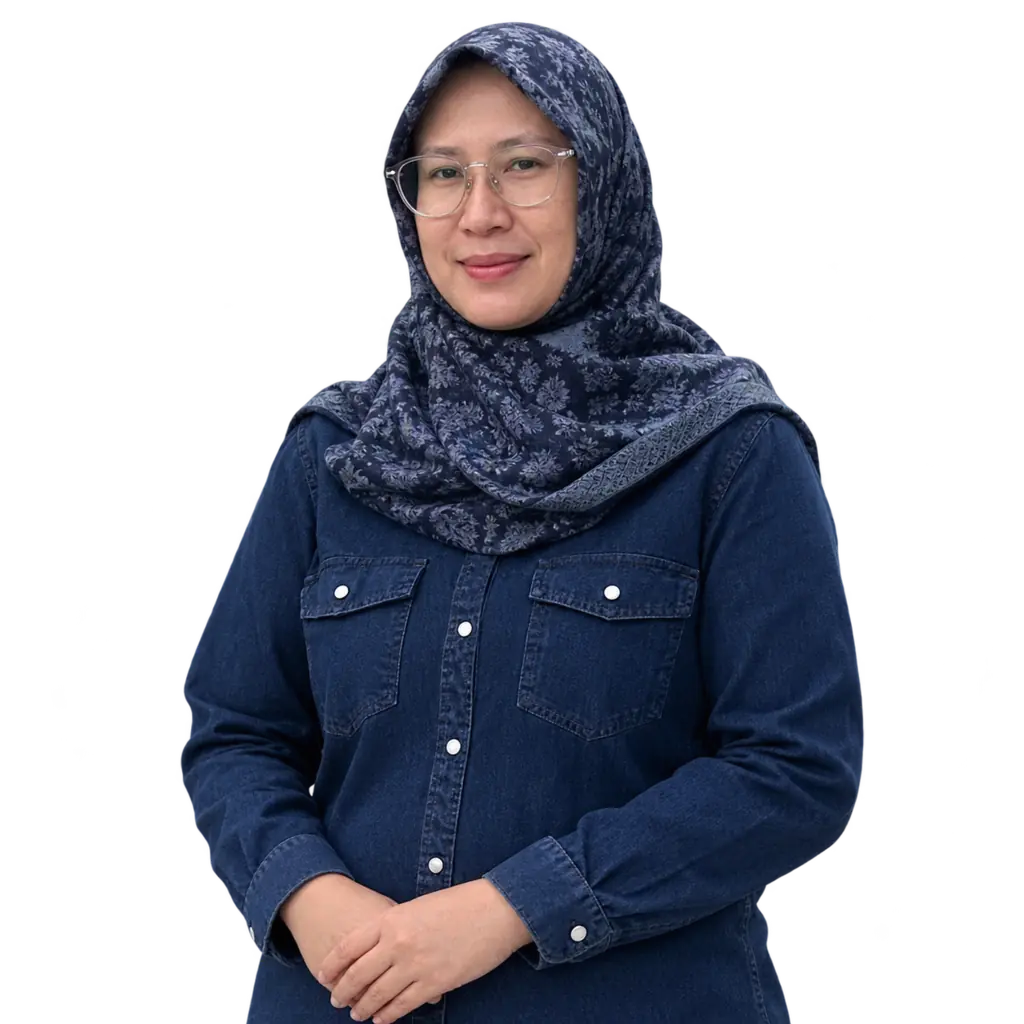
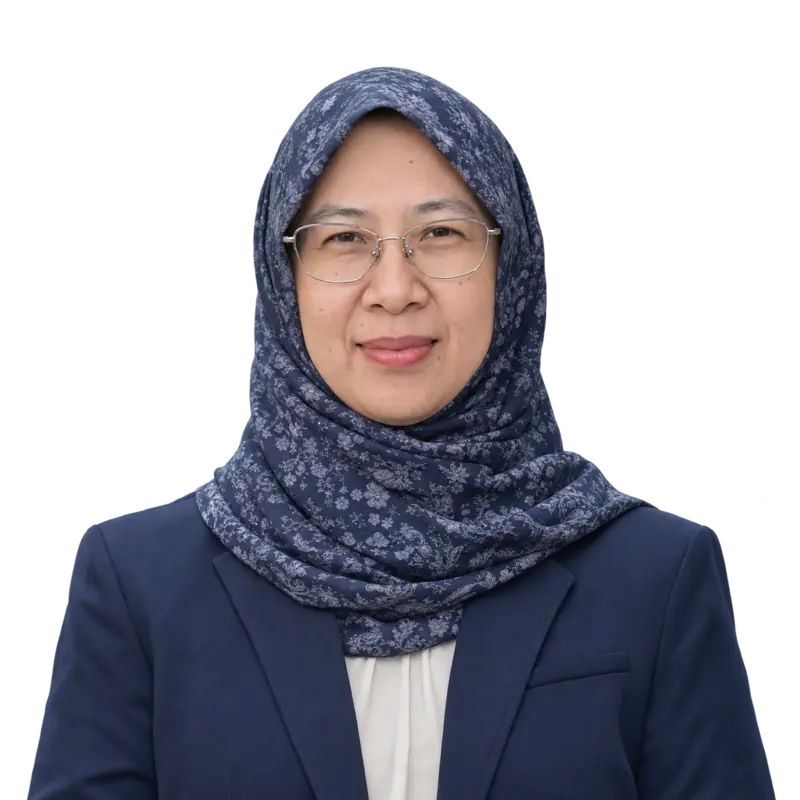
fix(asriwahyuni): restore Ayu facial likeness and expertise imagery

diff --git a/src/components/AsriLifestylePage.tsx b/src/components/AsriLifestylePage.tsx
@@ -17,16 +17,16 @@ const skills = ['Digital Marketing', 'Pendamping UMKM', 'MICE'];
 const evidenceBase = '/clients/asriwahyuni/';
 
 const expertiseAreas = [
-  { title: 'Digital Marketing', description: 'Strategi media sosial, pengembangan konten, pemasaran digital, dan komunikasi brand.', image: `${evidenceBase}founder-community.webp`, position: '20% 23%' },
-  { title: 'Content Creation', description: 'Travel, food, lifestyle, storytelling, dan proses produksi konten.', image: `${evidenceBase}behind-scenes.webp`, position: '52% 47%' },
+  { title: 'Digital Marketing', description: 'Strategi media sosial, pengembangan konten, pemasaran digital, dan komunikasi brand.', image: `${evidenceBase}behind-scenes.webp`, position: '48% 48%' },
+  { title: 'Content Creation', description: 'Travel, food, lifestyle, storytelling, dan proses produksi konten.', image: `${evidenceBase}media-9-juta-views.webp`, position: '50% 24%' },
   { title: 'UMKM Development', description: 'Pendampingan, edukasi pemasaran, dan pengembangan potensi usaha UMKM.', image: `${evidenceBase}narasumber-umkm.webp`, position: '48% 34%' },
-  { title: 'Business & MICE', description: 'Pengembangan kemitraan, networking, komunitas, dan peluang kolaborasi di bidang event.', image: `${evidenceBase}komunitas-instagram.webp`, position: '50% 80%' },
+  { title: 'Business & MICE', description: 'Pengembangan kemitraan, networking, komunitas, dan peluang kolaborasi di bidang event.', image: `${evidenceBase}founder-community.webp`, position: '19% 26%' },
 ];
 
 const proofGallery = [
-  { label: 'CONTENT CREATION', title: 'Di Balik Proses Produksi', description: 'Dokumentasi Ayu berkegiatan di depan laptop saat proses pengambilan gambar.', image: `${evidenceBase}behind-scenes.webp`, alt: 'Ayu bekerja di laptop bersama anak dan kru kamera saat pembuatan konten.' },
-  { label: 'MEDIA COVERAGE', title: 'Liputan 9 Juta Views', description: 'Cuplikan artikel 23 Januari 2026 tentang tayangan konten keluarga Ayu.', image: `${evidenceBase}media-9-juta-views.webp`, alt: 'Cuplikan artikel media mengenai Asri Wahyuni dan capaian 9 juta views konten keluarga.' },
-  { label: 'COMMUNITY BUILDING', title: 'Tiga Komunitas Perempuan', description: 'Poster komunitas yang dibagikan Ayu: AWC, Rumah Kawan Bunda, dan Wanita Cerdas Tangerang.', image: `${evidenceBase}founder-community.webp`, alt: 'Poster founder tiga komunitas perempuan beserta identitas dan akun media sosialnya.' },
+  { label: 'DIGITAL MARKETING', title: 'Di Balik Proses Produksi', description: 'Dokumentasi Ayu berkegiatan di depan laptop saat proses pengambilan gambar.', image: `${evidenceBase}behind-scenes.webp`, alt: 'Ayu bekerja di laptop bersama anak dan kru kamera saat pembuatan konten.' },
+  { label: 'CONTENT CREATION', title: 'Liputan 9 Juta Views', description: 'Cuplikan artikel 23 Januari 2026 tentang tayangan konten keluarga Ayu.', image: `${evidenceBase}media-9-juta-views.webp`, alt: 'Cuplikan artikel media mengenai Asri Wahyuni dan capaian 9 juta views konten keluarga.' },
+  { label: 'BUSINESS & MICE', title: 'Tiga Komunitas Perempuan', description: 'Poster komunitas yang dibagikan Ayu: AWC, Rumah Kawan Bunda, dan Wanita Cerdas Tangerang.', image: `${evidenceBase}founder-community.webp`, alt: 'Poster tiga komunitas perempuan yang menampilkan wajah Ayu, identitas komunitas, dan akun media sosialnya.' },
   { label: 'UMKM DEVELOPMENT', title: 'Narasumber Pengembangan Usaha', description: 'Sertifikat kegiatan pengembangan usaha kelompok perempuan dari Pemerintah Kota Tangerang.', image: `${evidenceBase}narasumber-umkm.webp`, alt: 'Sertifikat Pemerintah Kota Tangerang untuk Asri Wahyuni sebagai narasumber pengembangan usaha kelompok perempuan.' },
   { label: 'SOCIAL COMMUNITY', title: 'Jejak Komunitas di Media Sosial', description: 'Dokumentasi akun komunitas dan kegiatan yang dibagikan Ayu.', image: `${evidenceBase}komunitas-instagram.webp`, alt: 'Tangkapan layar akun Instagram About Woman Community, Rumah Kawan Bunda, dan Wanita Cerdas Tangerang.' },
 ];
@@ -62,7 +62,7 @@ export default function AsriLifestylePage({ editorMode = false }: { editorMode?:
         <div className="ayu-hero-inner">
           <div className="ayu-hero-label"><span data-studio-edit="name">{profile.displayName.toUpperCase()}.</span><span>PERSONAL BRAND</span></div>
           <div className="ayu-hero-image-wrap">
-            <img data-studio-edit="portrait" src={photo} alt={profile.portrait.alt} className="ayu-hero-image" fetchPriority="high" />
+            <img data-studio-edit="portrait" src={photo} alt={photo === visualHero ? 'Asri Wahyuni (Ayu) berkacamata dan berhijab navy dalam suasana ruang kerja profesional' : profile.portrait.alt} className="ayu-hero-image" fetchPriority="high" />
           </div>
           <div className="ayu-hero-content">
             <div className="ayu-hero-number">01 / HOME</div>

diff --git a/design-qa.md b/design-qa.md
@@ -194,3 +194,16 @@ Screenshots were reviewed interactively in the browser session; no screenshot fi
 - **P0/P1/P2 remaining:** none observed in checked page regions.
 - **P3:** proof cards are intentionally larger than the screenshot's thumbnail-only section, to keep article and certificate evidence accessible and readable.
 - **Production release:** confirm separately after merge and production deployment.
+
+---
+
+## Klien `/asriwahyuni` — identity fidelity and corrected expertise mapping
+
+**Final result: passed** (3 November 2026; 390px cloud-browser mobile preview)
+
+- **User correction:** previous category photographs were misplaced. Use filming/laptop behind-the-scenes photo for **Digital Marketing**, original news article screenshot about 9 million views for **Content Creation**, government certificate for **UMKM Development**, and founder-of-three-communities poster for **Business & MICE**.
+- **Identity source:** original user-submitted photo of Ayu on an outdoor staircase, wearing glasses and a patterned navy hijab. Generated 1:1 head-and-shoulders transparent WebP (`800×800`, `45,272 bytes`) and a consistent landscape editorial hero; AI-rendered hero labeled as a conceptual visual.
+- **MICE poster:** corrected model face to the recognizable features of the user-provided Ayu reference while retaining the original three community names and branding; exported readable poster WebP (`1,050×1,149`).
+- **Live mobile QA:** browser screenshot at the 390px iframe viewport confirms all four expertise images in corrected rows, clear text and dividers, responsive hero, and working `#expertise` navigation. No horizontal overflow observed.
+- **Scope:** original photography and press clipping remain attributed only to the materials supplied by the user. No changes to other client pages.
+- **Production release:** verify after GitHub merge and Vercel READY deployment.
